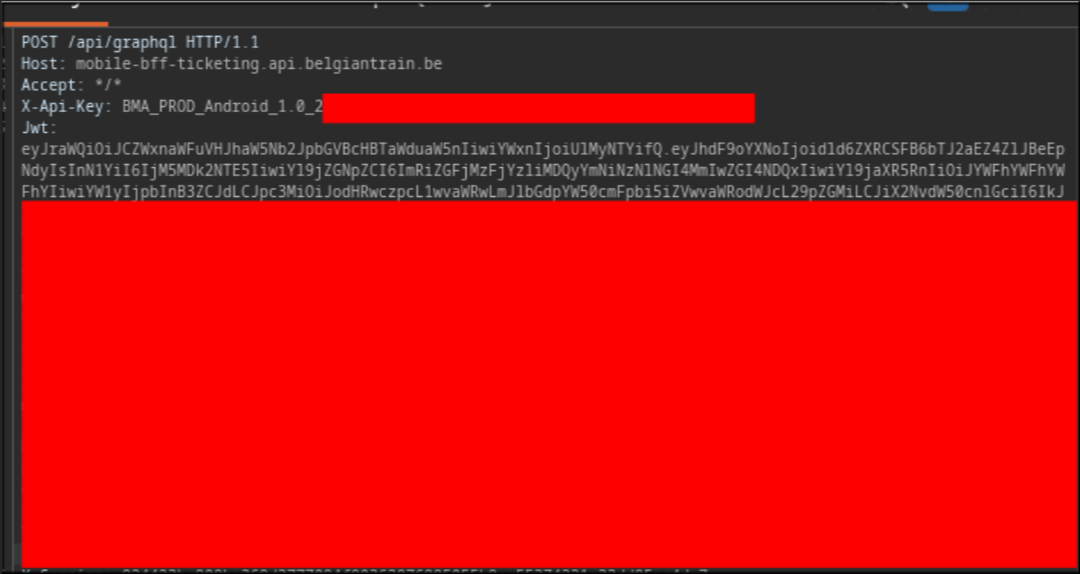
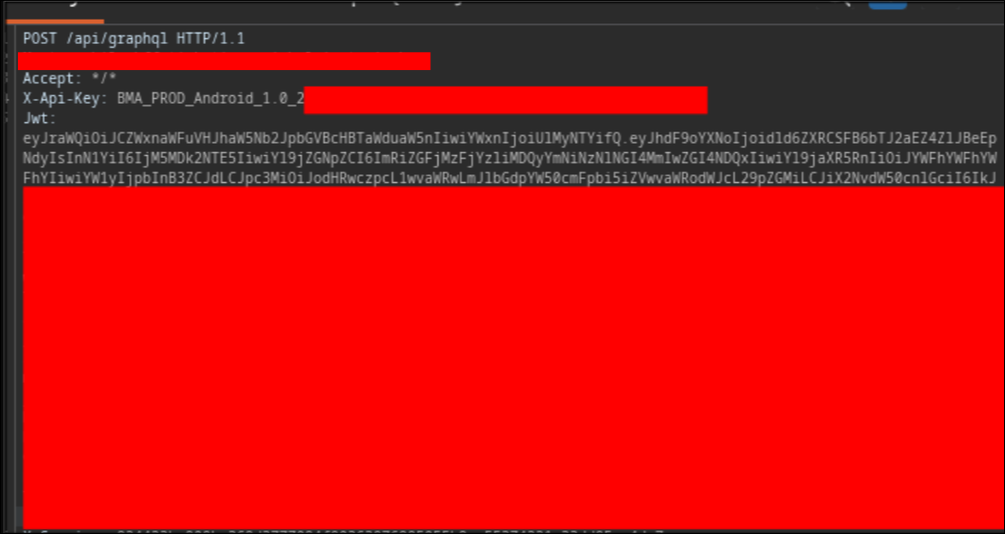
replace graphql post images with redacted versions

Changed region(s): [[0.0, 0.0, 1.0, 1.0]]

diff --git a/content/bug-bounty/advanced-graphql-part1.md b/content/bug-bounty/advanced-graphql-part1.md
@@ -104,6 +104,8 @@ So I started testing. Whenever I am looking for broken authorization bugs I like
 
 Upon logging in, I realized the server was giving me a JSON Web Token (JWT). If you want to learn more about JWT attacks refer to this [writeup](https://yusufsaka007.github.io/ctf/htb-criticalops/).
 
+![JWT token](/images/bug-bounty/advanced-graphql-part1/2jwt_token.png)
+
 Going to the homepage I noticed it makes different API calls, and some of them were going to a GraphQL endpoint.
 
 As usual I tried firing up an **Introspection query**, which was disabled as expected. I then tried to generate the whole API schema by bruteforcing the suggestions, which was disabled as well. More about these techniques in later chapters.
@@ -138,6 +140,8 @@ Content-Type: application/json
 ```
 
 At this point I decided to run a quick **FFUF** scan to prove the impact. I created a short wordlist of customer IDs, fired up the tool, and started getting many hits disclosing sensitive information like first name, last name, birthdate, email, order ID, and so on.
+
+![FFUF results](/images/bug-bounty/advanced-graphql-part1/3ffuf_results.png)
 
 The team fixed the bug quickly and were kind enough to offer me a spot on their wall of fame.
 
